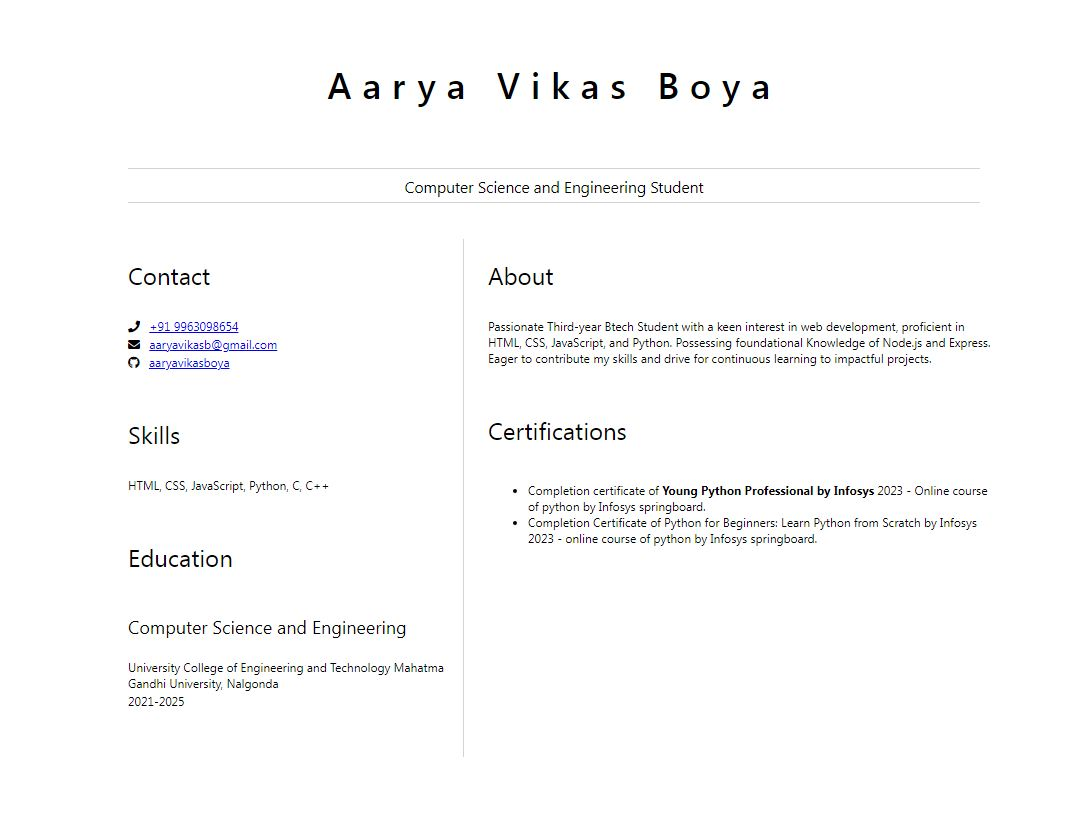
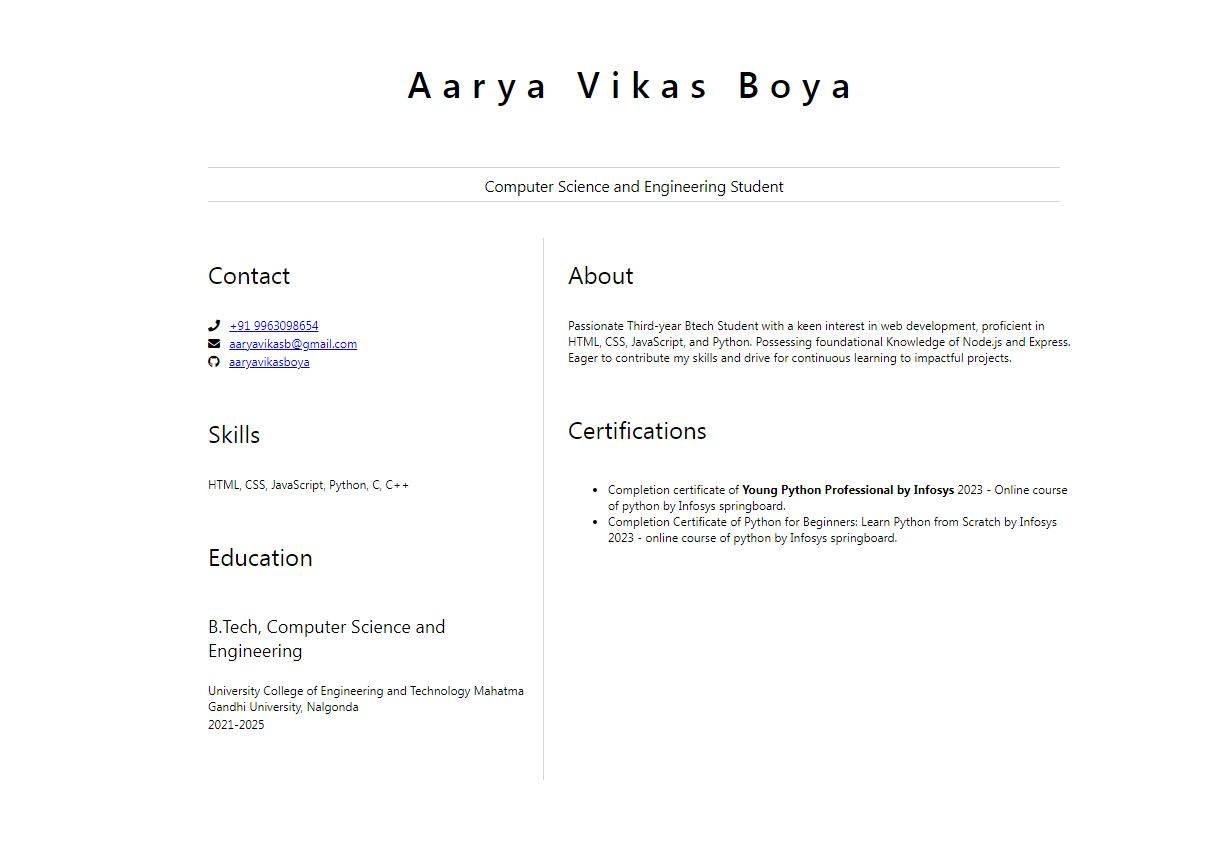
Updated

diff --git a/index.html b/index.html
@@ -42,7 +42,7 @@
             </section>
             <section>
                 <h2>Education</h2>
-                <h3>Computer Science and Engineering</h3>
+                <h3>B.Tech, Computer Science and Engineering</h3>
                 <p>
                     University College of Engineering and Technology Mahatma Gandhi University, Nalgonda 
                 </p>
